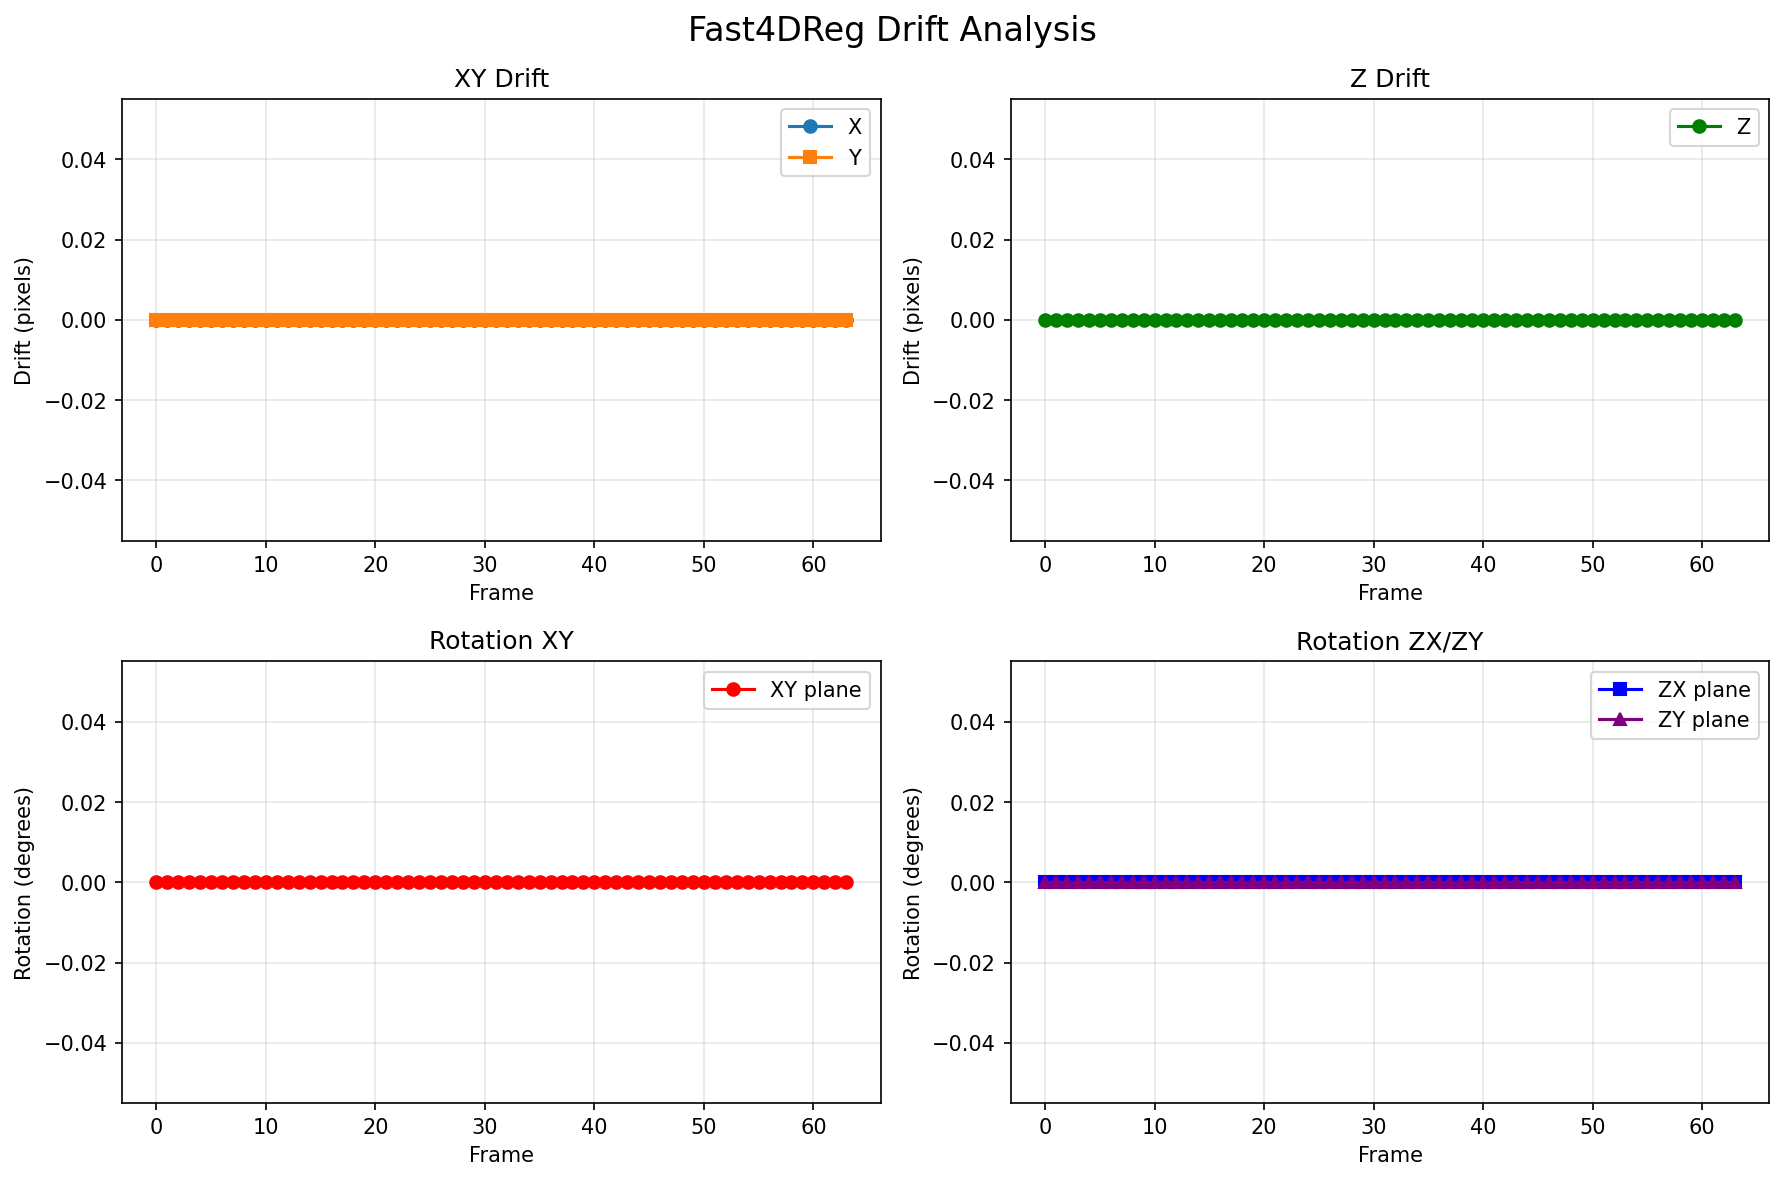
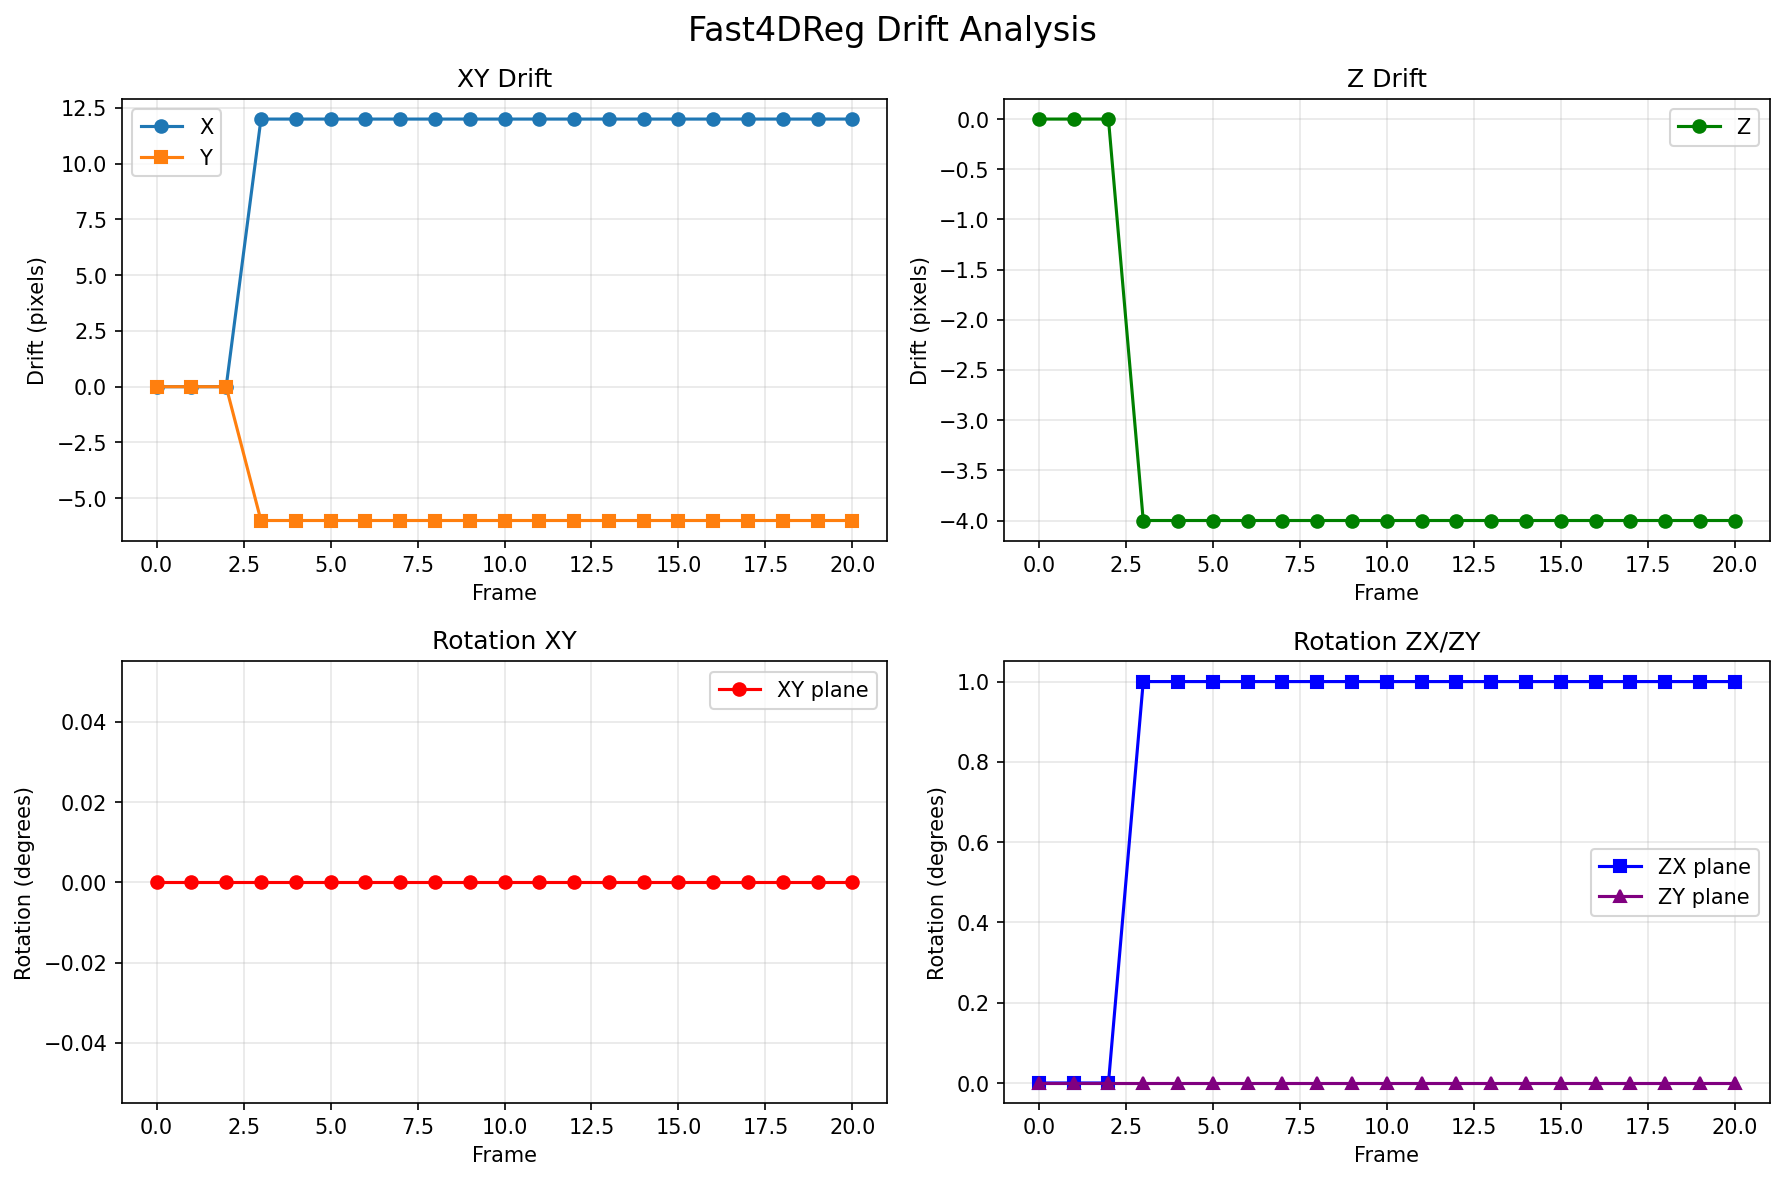
Update package version/tag and regenerate example outputs

diff --git a/src/napari_fast4dreg/_fast4Dreg_functions.py b/src/napari_fast4dreg/_fast4Dreg_functions.py
@@ -391,6 +391,7 @@ def translate_z_stack(_image, _shift, transform_type='z'):
 
 def _translate_z_stack_cpu(_image, _shift, transform_type):
     """CPU implementation using scipy.ndimage."""
+    _shift = - _shift
     _image_out = []
     return_numpy = isinstance(_image, np.ndarray) and _image.ndim == 3
     image_iter = [_image] if return_numpy else _image
@@ -455,6 +456,7 @@ def _translate_z_stack_cpu(_image, _shift, transform_type):
 
 
 def _translate_z_stack_gpu(_image, _shift, transform_type):
+    _shift = - _shift
     """GPU implementation using pyclesperanto."""
     _image_out = []
     

diff --git a/src/napari_fast4dreg/__init__.py b/src/napari_fast4dreg/__init__.py
@@ -1,4 +1,5 @@
-__version__ = "0.2.6"
+__version__ = "0.2.7"
+__tag__ = "v0.27"
 
 from ._fast4Dreg_functions import get_gpu_info, set_gpu_acceleration
 from .api import fast4dreg, register, register_image, register_image_from_file
